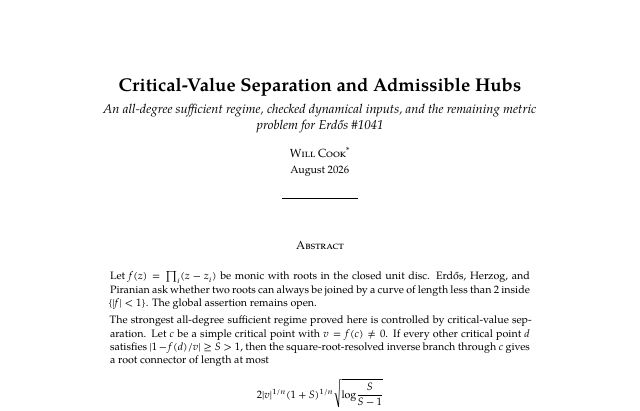
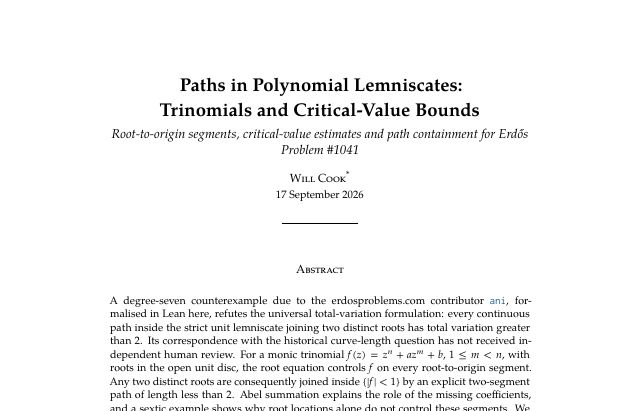
Refresh eight-paper reading map from current public site

Changed region(s): [[0.1562, 0.6423, 0.8438, 1.0], [0.1562, 0.1752, 0.8438, 0.4964], [0.4688, 0.5839, 0.5312, 0.6131]]

diff --git a/index.html b/index.html
@@ -2548,19 +2548,19 @@
           <span class="problem-sheet__topline"><span class="problem-sheet__number">Erdős #243</span><span class="problem-sheet__status">Open</span></span>
           <span class="problem-sheet__title">Reciprocal-tail rigidity near the Sylvester recurrence</span>
           <span class="problem-sheet__question"><span class="problem-sheet__label">Question</span>Under a rapid-growth hypothesis on an integer sequence, does rationality of its reciprocal sum force the sequence to satisfy the Sylvester recurrence eventually?</span>
-          <span class="problem-sheet__section"><span class="problem-sheet__label">Short note</span>Excluding the Bounded Negative Part</span>
+          <span class="problem-sheet__section"><span class="problem-sheet__label">Short note</span>Bounded Increments and Rational Reciprocal Sums</span>
           <span class="problem-sheet__section problem-sheet__section--open"><span class="problem-sheet__label">Research status</span>The original problem remains open. The problem page separates results, evidence and remaining work.</span></span>
             <span class="shot__problem" data-problem="249" aria-hidden="true">
           <span class="problem-sheet__topline"><span class="problem-sheet__number">Erdős #249</span><span class="problem-sheet__status">Open</span></span>
           <span class="problem-sheet__title">The binary totient series</span>
           <span class="problem-sheet__question"><span class="problem-sheet__label">Question</span>Is the binary Lambert series sum phi(n)/2^n irrational?</span>
-          <span class="problem-sheet__section"><span class="problem-sheet__label">Short note</span>A Basis for the 2-Kernel of Euler&#x27;s Totient</span>
+          <span class="problem-sheet__section"><span class="problem-sheet__label">Short note</span>Bases and Integral Relations for the $k$-Kernel of Euler&#x27;s Totient</span>
           <span class="problem-sheet__section problem-sheet__section--open"><span class="problem-sheet__label">Research status</span>The original problem remains open. The problem page separates results, evidence and remaining work.</span></span>
             <span class="shot__problem" data-problem="251" aria-hidden="true">
           <span class="problem-sheet__topline"><span class="problem-sheet__number">Erdős #251</span><span class="problem-sheet__status">Open</span></span>
           <span class="problem-sheet__title">The prime-gap dyadic series</span>
-          <span class="problem-sheet__question"><span class="problem-sheet__label">Question</span>Is the dyadic series sum p_n/2^n over consecutive primes irrational? Equivalently, is the corresponding consecutive-prime-gap dyadic series irrational?</span>
-          <span class="problem-sheet__section"><span class="problem-sheet__label">Short note</span>A Countermodel for Growth-and-Parity Arguments on the Prime-Gap Dyadic Series</span>
+          <span class="problem-sheet__question"><span class="problem-sheet__label">Question</span>Is the dyadic series of consecutive primes irrational? Equivalently, is the corresponding consecutive-prime-gap dyadic series irrational?</span>
+          <span class="problem-sheet__section"><span class="problem-sheet__label">Short note</span>Sparse Congruence-Preserving Perturbations of Dyadic Series</span>
           <span class="problem-sheet__section problem-sheet__section--open"><span class="problem-sheet__label">Research status</span>The original problem remains open. The problem page separates results, evidence and remaining work.</span></span>
             <span class="shot__problem" data-problem="257" aria-hidden="true">
           <span class="problem-sheet__topline"><span class="problem-sheet__number">Erdős #257</span><span class="problem-sheet__status">Open</span></span>
@@ -2577,14 +2577,14 @@
             <span class="shot__problem" data-problem="1041" aria-hidden="true">
           <span class="problem-sheet__topline"><span class="problem-sheet__number">Erdős #1041</span><span class="problem-sheet__status">Qualified</span></span>
           <span class="problem-sheet__title">Short connections inside polynomial lemniscates</span>
-          <span class="problem-sheet__question"><span class="problem-sheet__label">Question</span>For a monic polynomial whose roots lie in the open unit disc, must two roots be joinable by a curve of length less than two inside the open unit lemniscate?</span>
-          <span class="problem-sheet__section"><span class="problem-sheet__label">Short note</span>Sharp Solved Families and Constant-Factor Paths in Polynomial Lemniscates</span>
+          <span class="problem-sheet__question"><span class="problem-sheet__label">Question</span>For a monic polynomial whose roots lie in the open unit disc, must two roots be joinable by a curve of length less than two inside the open unit lemniscate? The registry has not adjudicated whether the checked total-variation formulation exactly matches this historical curve-length question.</span>
+          <span class="problem-sheet__section"><span class="problem-sheet__label">Short note</span>Paths in Polynomial Lemniscates: Trinomials and Critical-Value Bounds</span>
           <span class="problem-sheet__section problem-sheet__section--open"><span class="problem-sheet__label">Research status</span>Exact Formal Conjectures path-image bound refuted; historical curve-length correspondence unreviewed. The problem page separates results, evidence and remaining work.</span></span>
             <span class="shot__problem" data-problem="1049" aria-hidden="true">
           <span class="problem-sheet__topline"><span class="problem-sheet__number">Erdős #1049</span><span class="problem-sheet__status">Open</span></span>
           <span class="problem-sheet__title">Lambert-type series at rational bases</span>
-          <span class="problem-sheet__question"><span class="problem-sheet__label">Question</span>For which rational bases is the corresponding series irrational? The smallest resistant explicit base is three halves.</span>
-          <span class="problem-sheet__section"><span class="problem-sheet__label">Short note</span>Irrationality of F(31/4) and the Exact Normalized Hankel Order</span>
+          <span class="problem-sheet__question"><span class="problem-sheet__label">Question</span>For which rational bases is the corresponding series irrational? The first resistant explicit base is three halves.</span>
+          <span class="problem-sheet__section"><span class="problem-sheet__label">Short note</span>Zudilin&#x27;s Forms at Rational Bases and the Exact Normalised Hankel Order</span>
           <span class="problem-sheet__section problem-sheet__section--open"><span class="problem-sheet__label">Research status</span>The original problem remains open. The problem page separates results, evidence and remaining work.</span></span>
           </span>
         </a>
